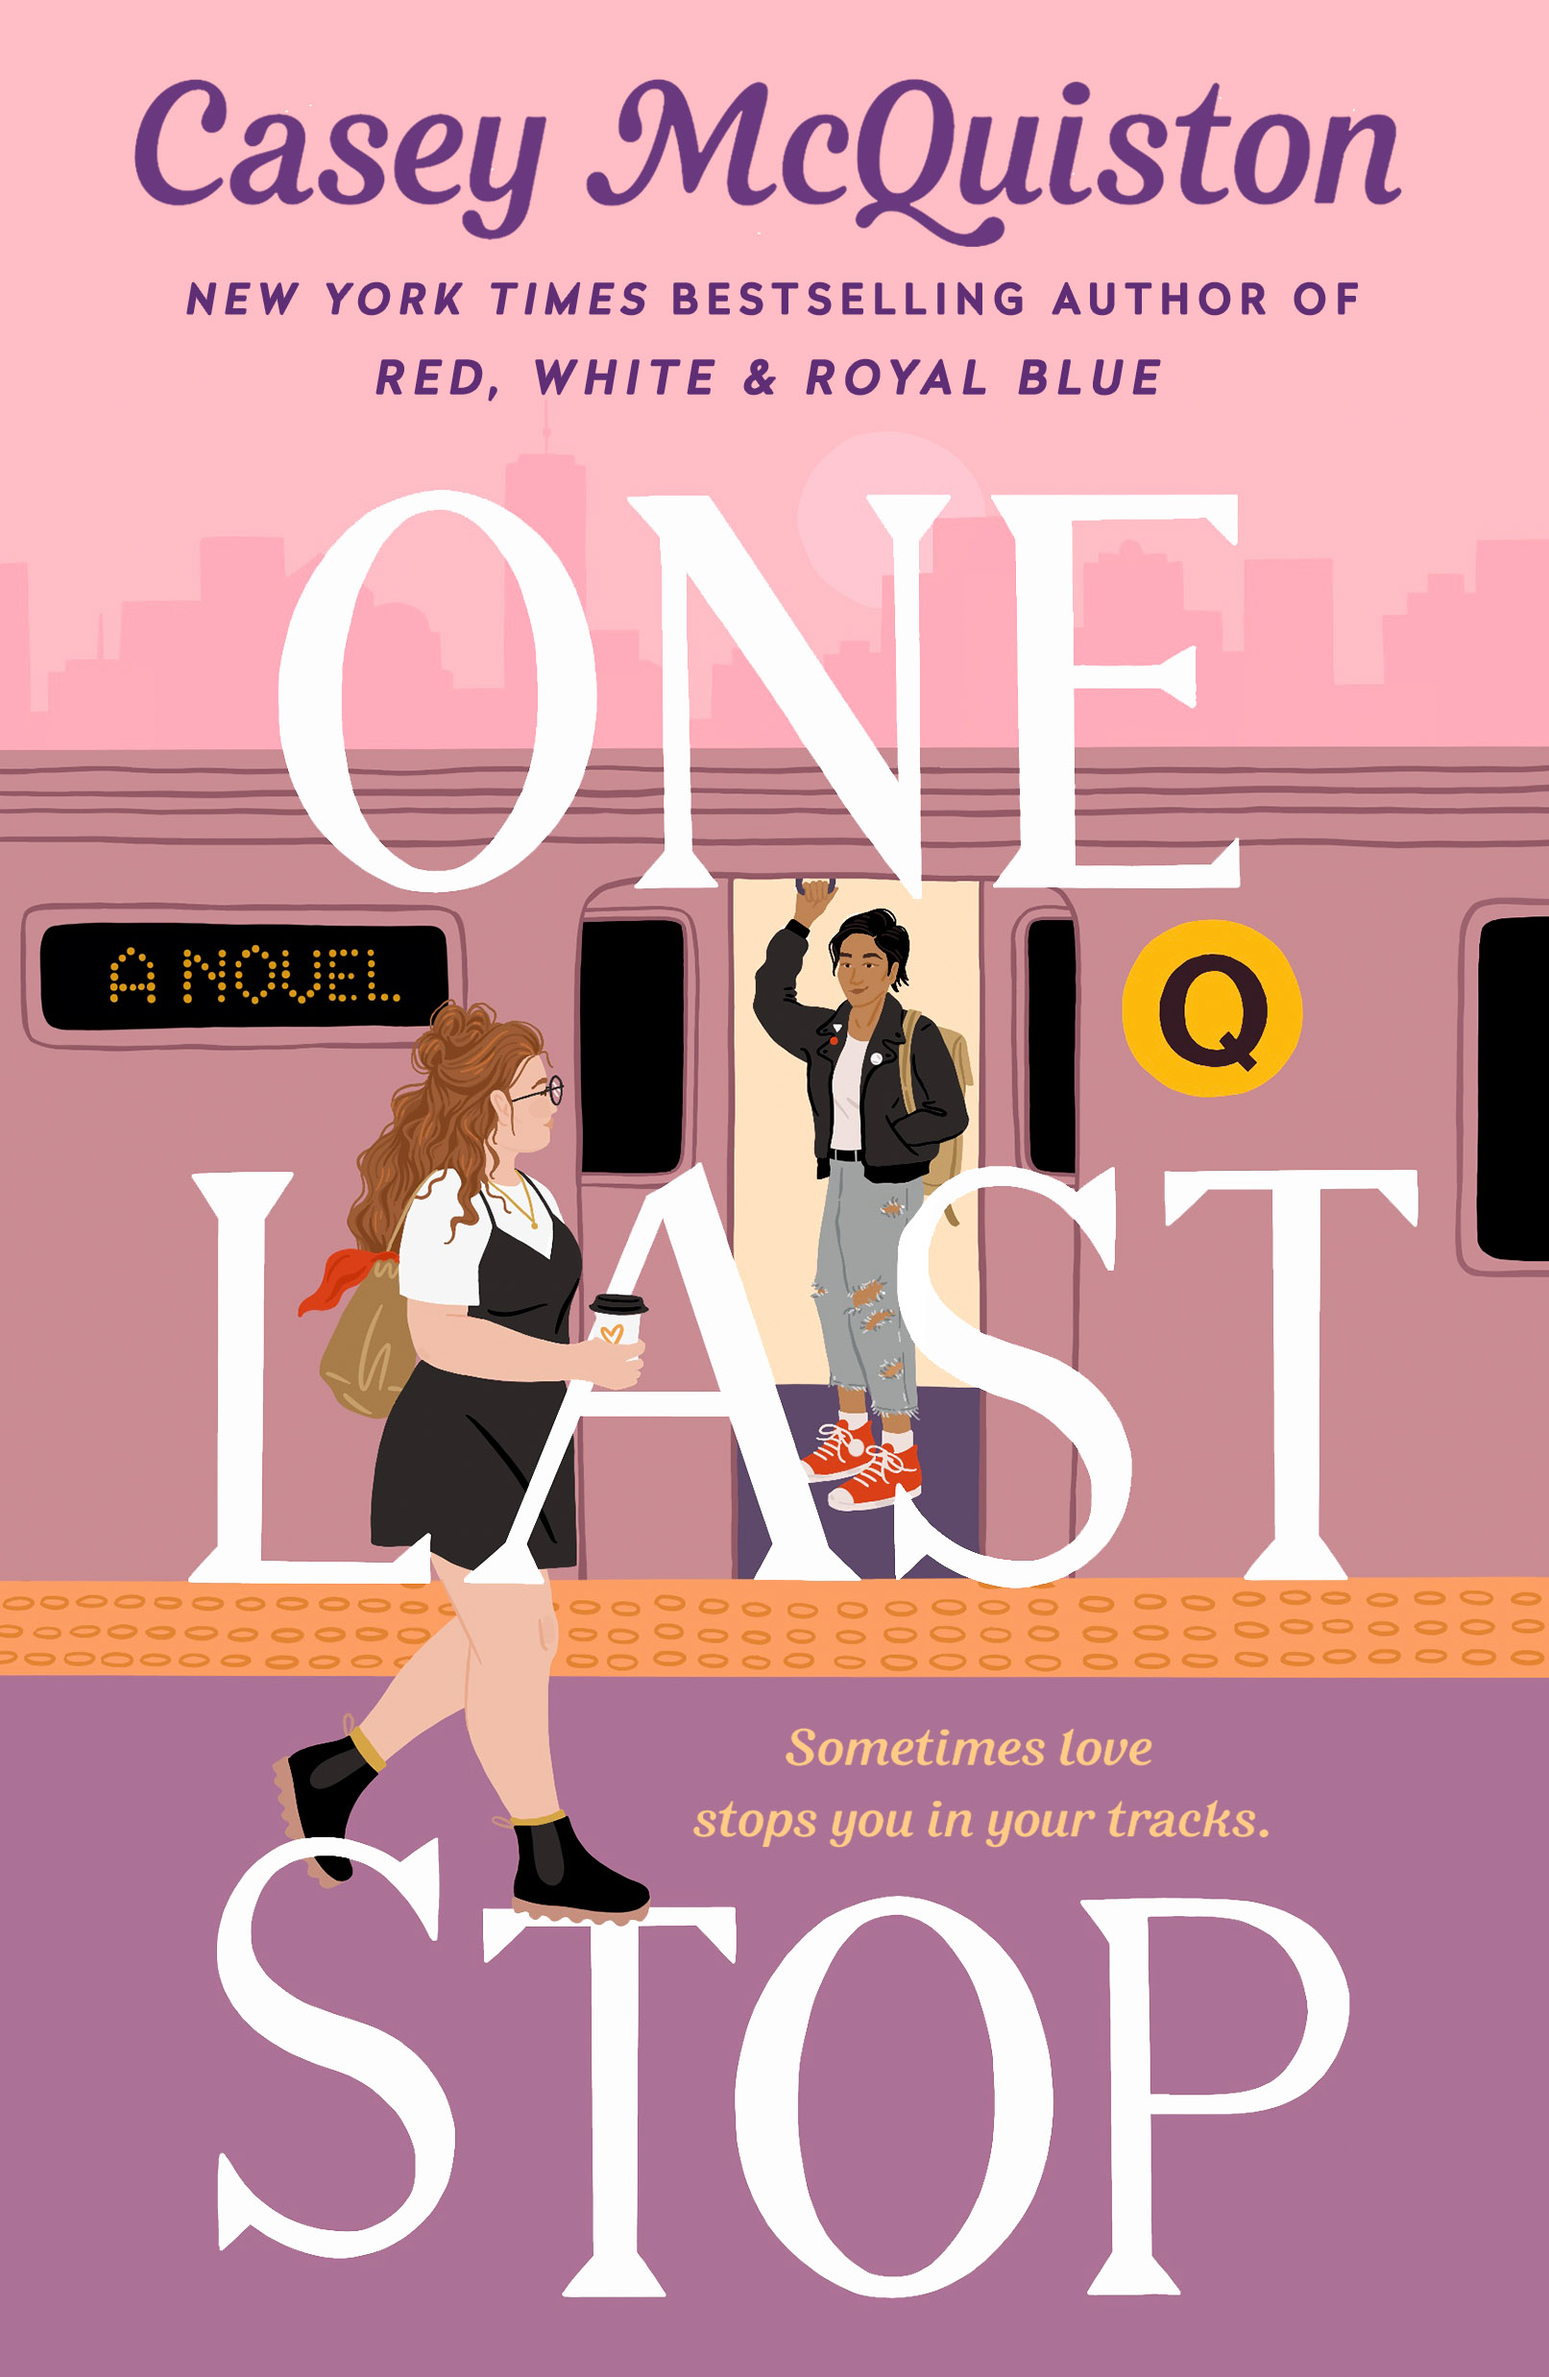
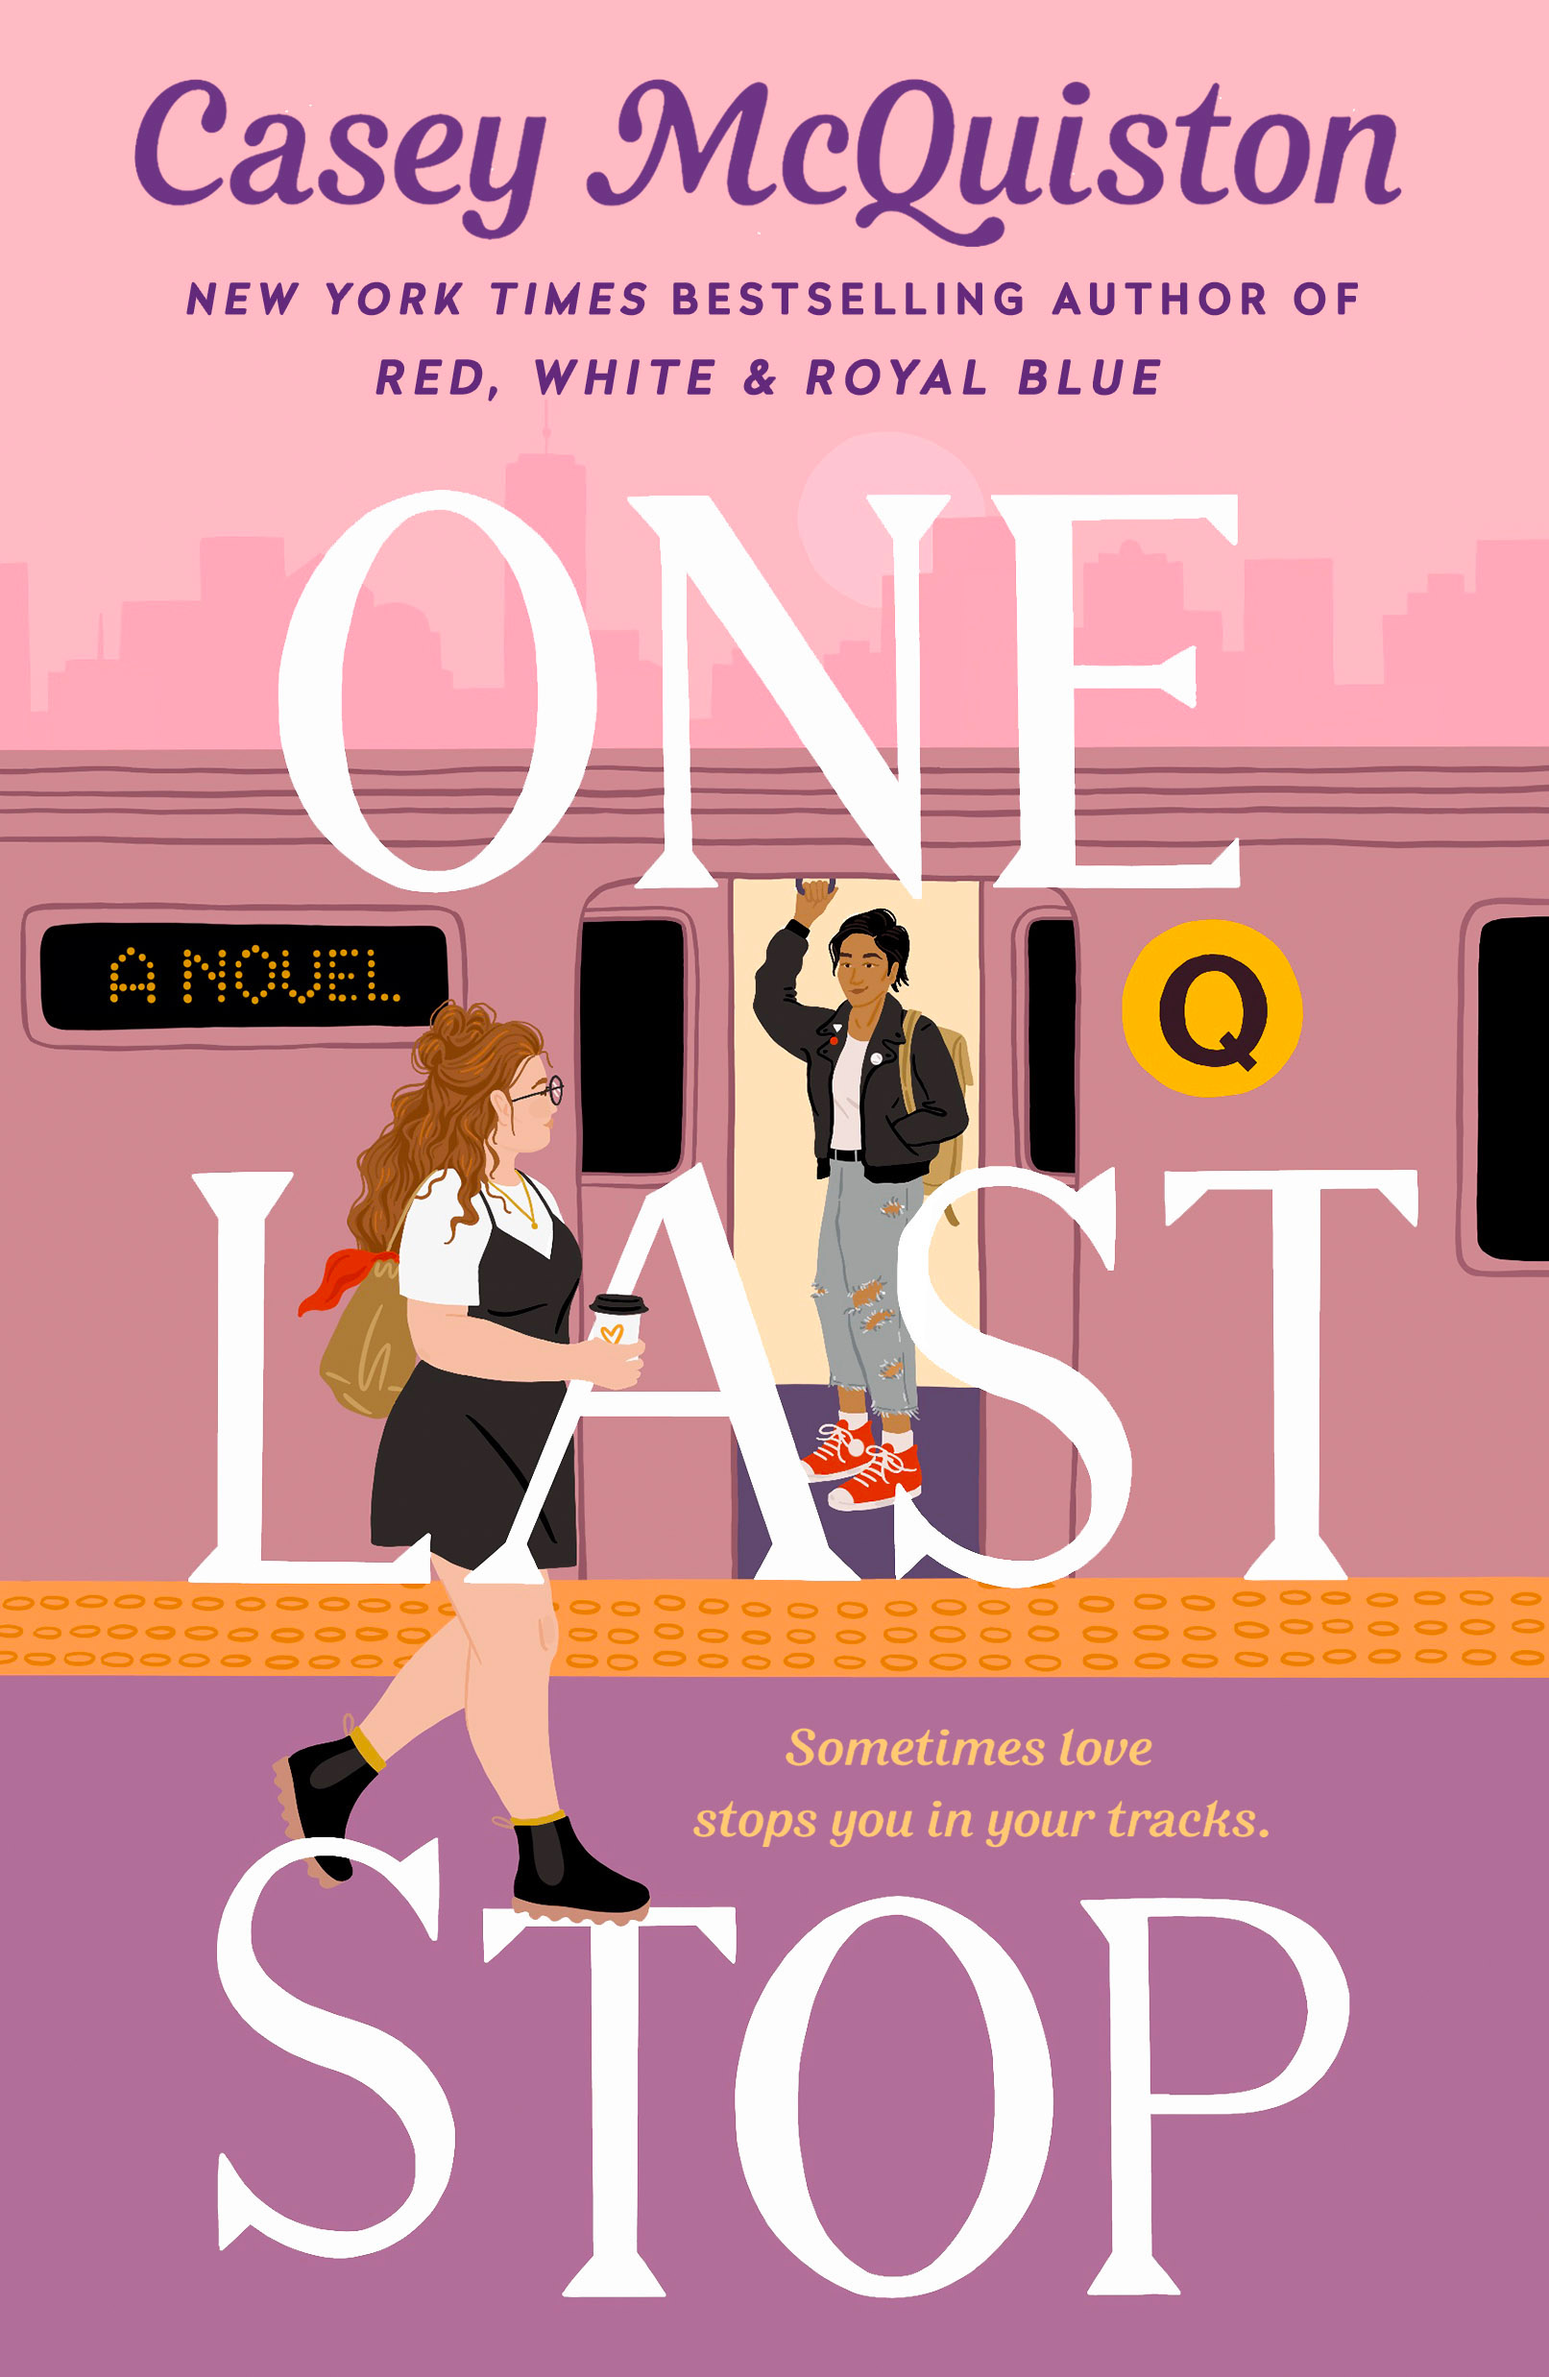
play with some colours

diff --git a/reviews/2022/one-last-stop.md b/reviews/2022/one-last-stop.md
@@ -3,7 +3,7 @@ book:
   author: Casey McQuiston
   cover:
     name: one-last-stop.jpg
-    tint_color: "#aa7094"
+    tint_color: "#a96894"
   title: One Last Stop
   publication_year: 2021
   isbn13: "9781250244499"
